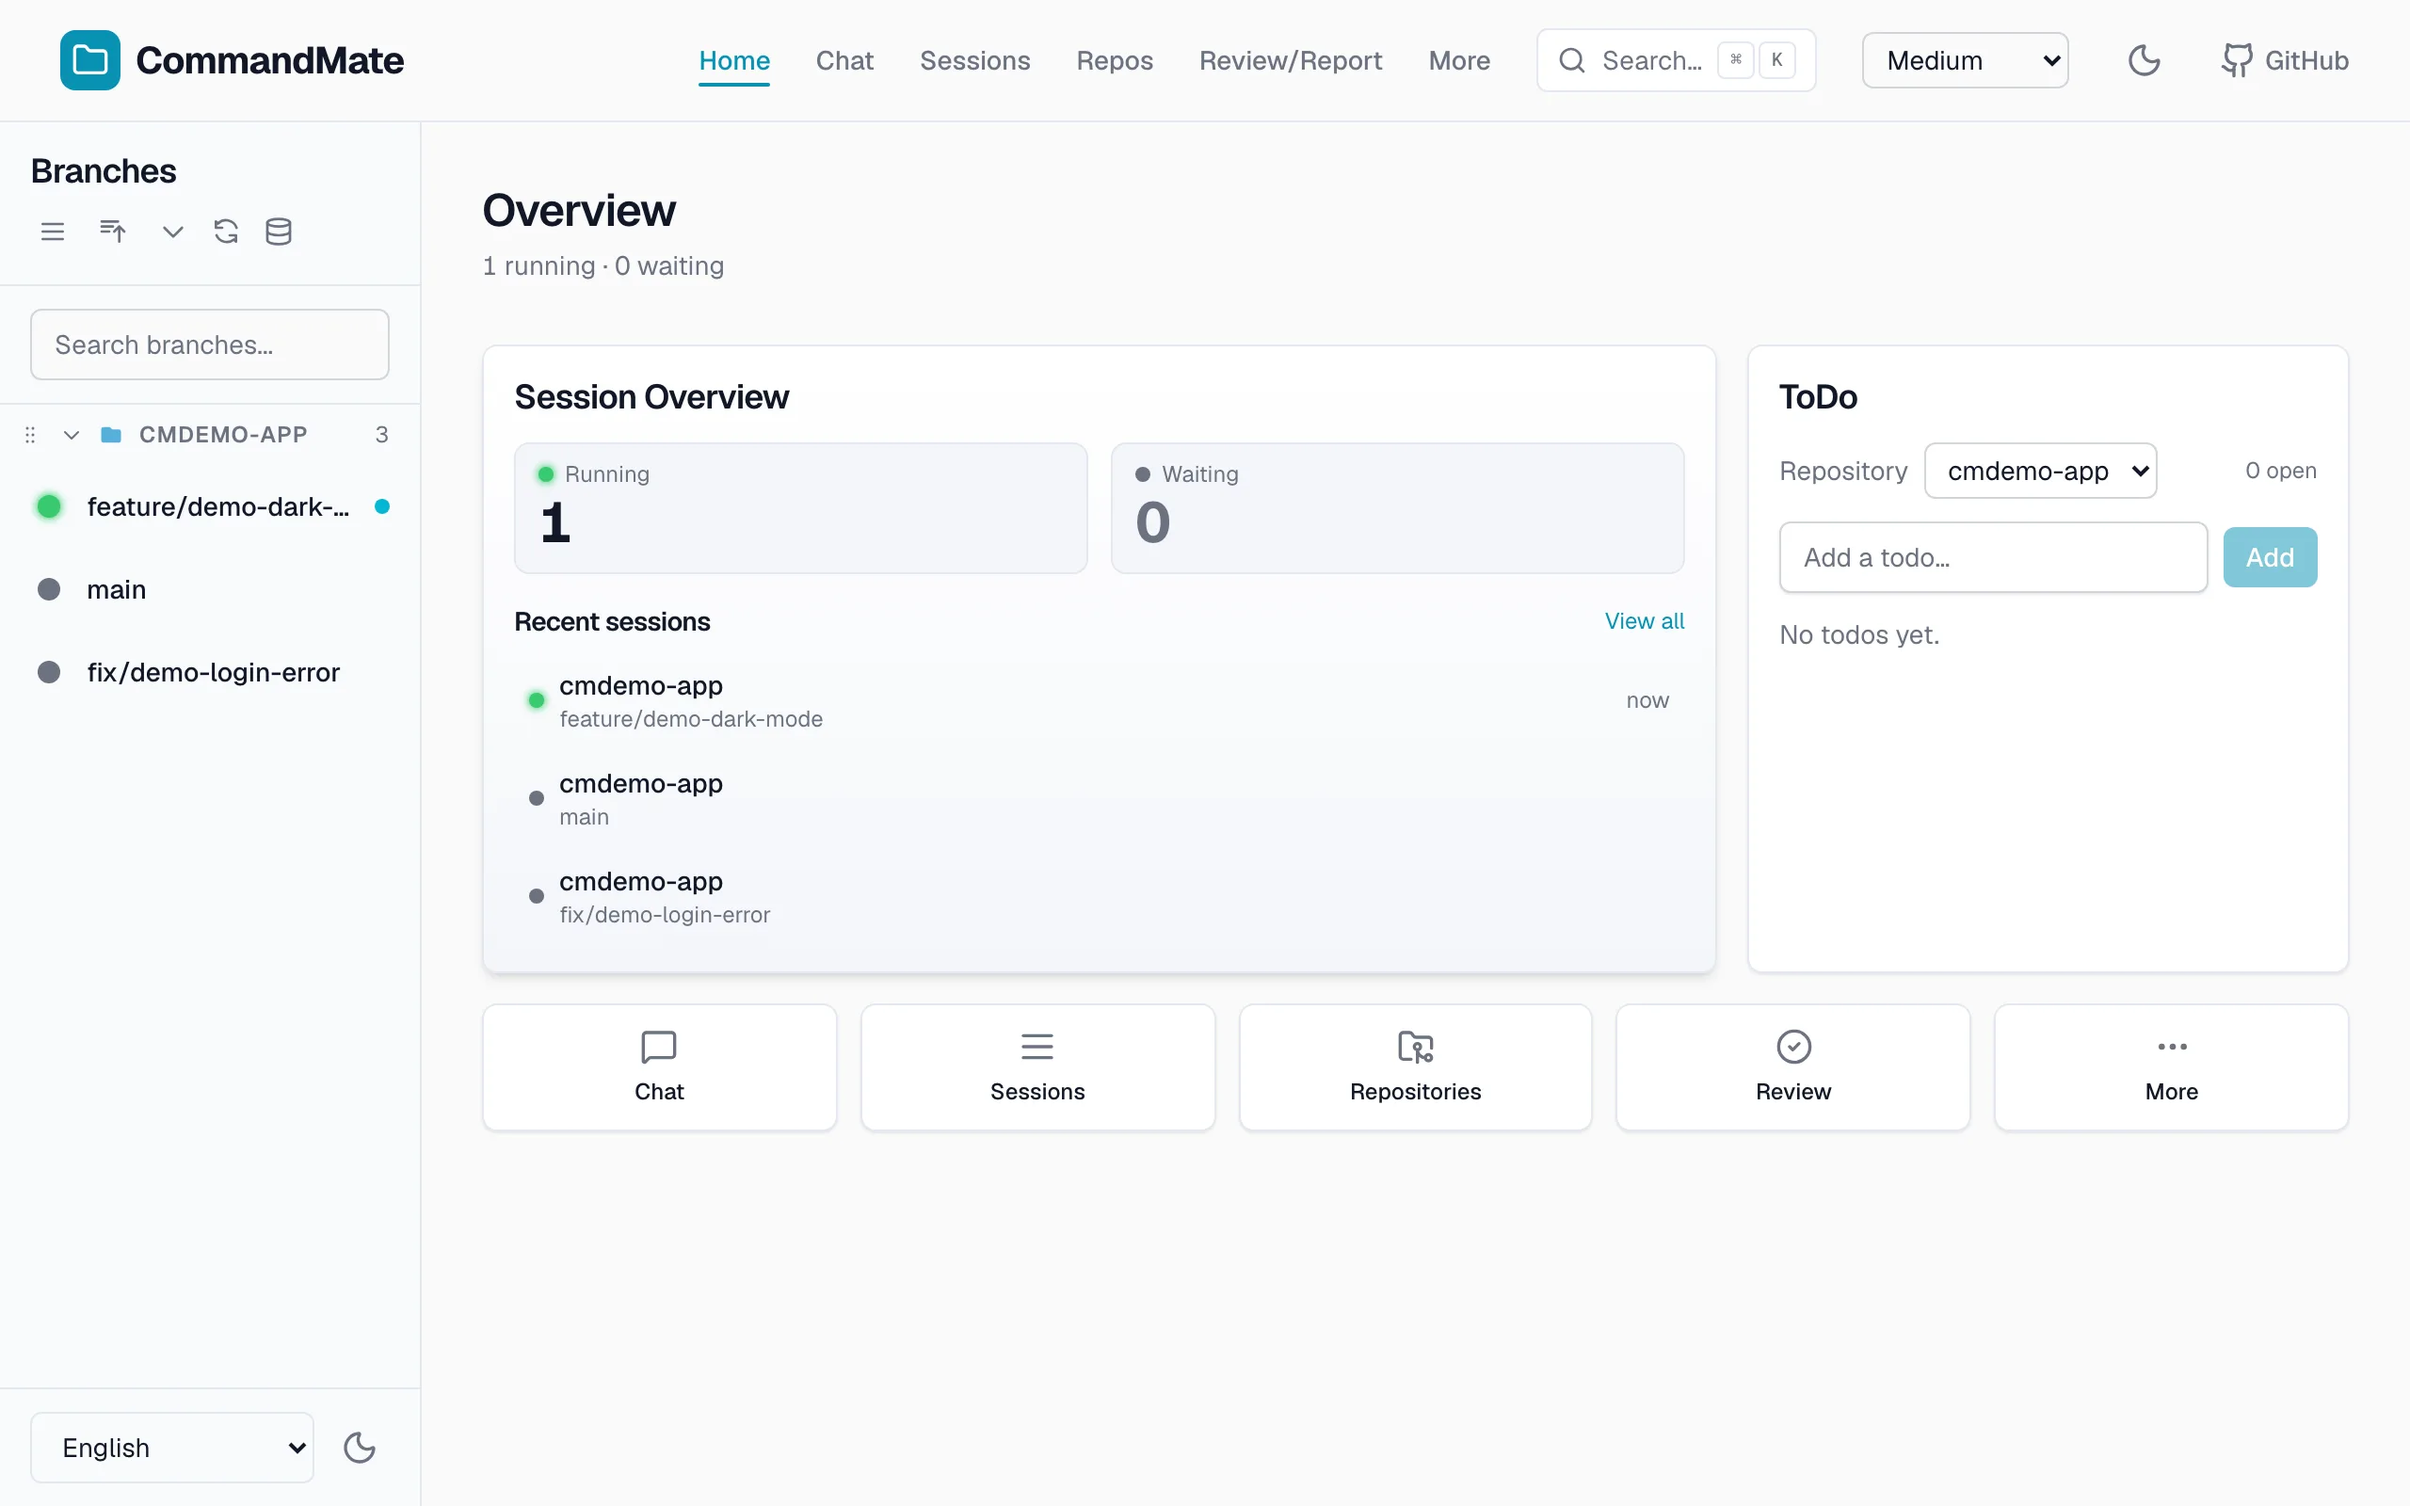
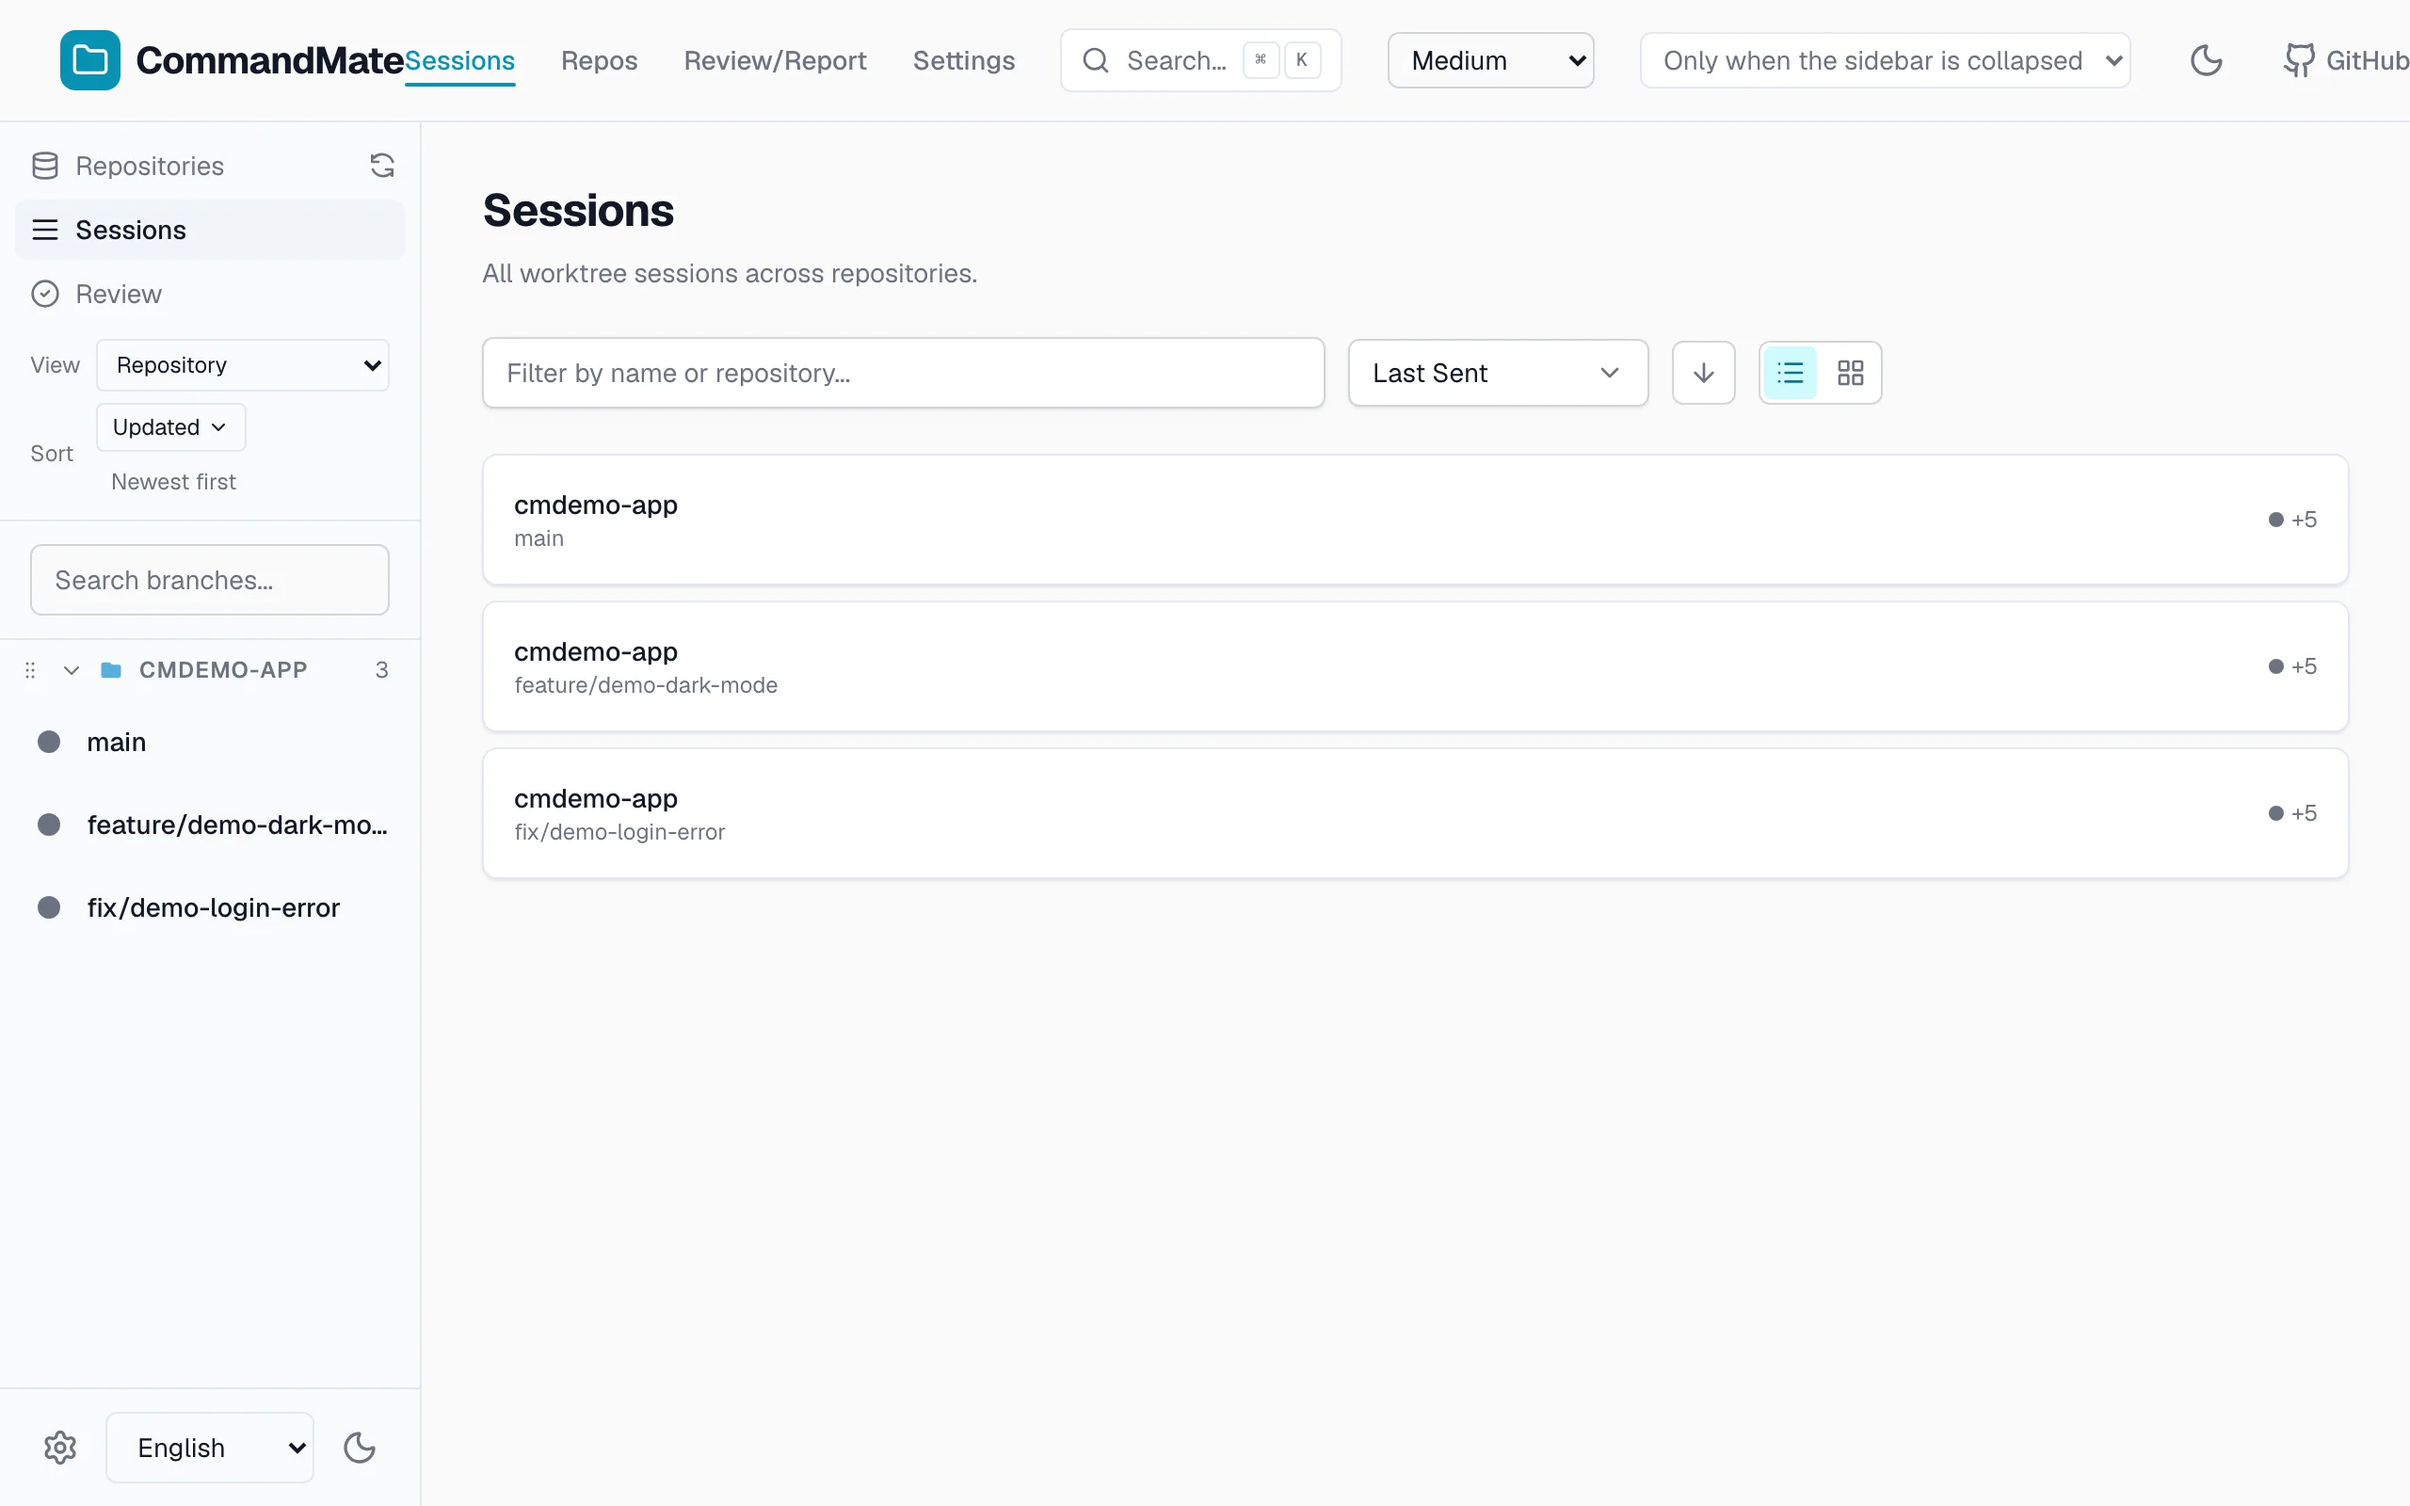
fix(website): LP の PC 画面スクリーンショットと og:image を Sessions 画面で撮り直す (#3174)
- stills.ts の screenshot-desktop を `${baseUrl}/` から `${baseUrl}/sessions` に変更。
  `/` は #2643 以降「最後に開いたブランチ（無ければ /sessions）」への router.replace で、
  撮れる画面が履歴次第だった。待つ要素は実コードで確認した app-shell（AppShell.tsx）、
  sessions-list と session-item-<worktreeId>（src/app/sessions/page.tsx）。
  旧コードが待っていた status-indicator は Sessions 画面に無いため外した。
- stills.test.ts に「hero は /sessions を開き sessions-list と seed の行を待つ」テストを追加（既存 it は不変）。
- SKILL.md の 4-d 表を `/sessions` に更新し .agents/ の写しへ反映（diff -r 無差分）。
  docs/user-guide/demo-video.md には 4-d の表が無かったため、hero が /sessions を撮る旨の
  説明を静止画の節に足した。
- 撮り直し: HOME=/Users/Shared/cmdemo-home、PLAYWRIGHT_BROWSERS_PATH を実ユーザーの
  キャッシュ、unset TMUX、CM_DEMO_HOME=/Users/Shared/cmdemo-home/.commandmate-demo-3174、
  CM_DEMO_PORT=3474 で env-up.sh を起動。ps eww で CM_DB_PATH / HOME / CM_PORT /
  WORKTREE_REPOS が隔離値であること、lsof -p <listener> で開いている .db が
  .commandmate-demo-3174/cm.db だけ（~/.commandmate 配下なし）であることを確認。
  `stills.ts --still screenshot-desktop` を scratchpad 出力で実行し（61,408B, q=82,
  scale=1, 2560x1600 で旧画像と同寸）、webp だけを website/assets/img/ へ置いた。
  他の 4 枚は撮っていない・変えていない。後始末は env-down.sh --purge のみ（tmux は未使用、
  セッション数 28 は前後で不変、ポート 3474 の LISTEN 無し）。
- 画像の目視確認（Read で開いた）: 上部タブ Sessions / Repos / Review/Report / Settings、
  左サイドバー（Repositories / Sessions / Review、CMDEMO-APP の main /
  feature/demo-dark-mode / fix/demo-login-error）、本文は Sessions 一覧 3 行（cmdemo-app）。
  廃止した Home の Overview・ToDo・Home / Chat タブは映っていない。私設リポジトリ名・
[…]

diff --git a/tests/unit/skills/demo-video/stills.test.ts b/tests/unit/skills/demo-video/stills.test.ts
@@ -67,6 +67,39 @@ describe('STILLS', () => {
     expect(DEFAULT_BUDGET_BYTES).toBe(100_000);
   });
 
+  it('shoots the desktop hero on /sessions, not on the / redirect', async () => {
+    // Issue #3174: `/` replaces itself with the last-opened branch (or
+    // /sessions) since #2643, so the hero depended on browser history and the
+    // published one still showed the retired Home Overview. /sessions is the
+    // screen the LP caption describes, and the phone shot already uses it.
+    const visited: string[] = [];
+    const waitedFor: string[] = [];
+    const page = {
+      goto: async (url: string) => {
+        visited.push(url);
+      },
+      evaluate: async () => 'en',
+      getByTestId: (id: string) => ({
+        waitFor: async () => {
+          waitedFor.push(id);
+        },
+        first: () => ({ waitFor: async () => { waitedFor.push(id); } }),
+      }),
+      waitForTimeout: async () => undefined,
+    };
+    const hero = STILLS.find((still) => still.id === 'screenshot-desktop');
+    await hero!.open({
+      page: page as never,
+      baseUrl: 'http://127.0.0.1:3399',
+      locale: 'en',
+      worktreeId: 'wt-dark-mode',
+      state: {} as never,
+    });
+    expect(visited).toEqual(['http://127.0.0.1:3399/sessions']);
+    expect(waitedFor).toContain('sessions-list');
+    expect(waitedFor).toContain('session-item-wt-dark-mode');
+  });
+
   it('writes every still to both published locations', () => {
     const options = parseStillsArgs([], {});
     expect(options.pngDir).toBe(path.join(REPO_ROOT, 'docs/images'));

diff --git a/.agents/skills/demo-video/scripts/stills.ts b/.agents/skills/demo-video/scripts/stills.ts
@@ -76,10 +76,15 @@ export const STILLS: Still[] = [
     viewport: { ...DEFAULT_VIEWPORT },
     deviceScaleFactor: 2,
     budgetBytes: DEFAULT_BUDGET_BYTES,
-    open: async ({ page, baseUrl, locale }) => {
-      await gotoLocalized(page, `${baseUrl}/`, locale);
-      await page.getByTestId('branch-list').waitFor({ state: 'visible' });
-      await page.getByTestId('status-indicator').first().waitFor({ state: 'visible' });
+    // `/` is a redirect to the last-opened branch (or `/sessions`) since #2643,
+    // so what it showed depended on the browser's history. `/sessions` is the
+    // same page the phone shot uses and matches the LP caption ("every session
+    // and its status"), whatever was opened last.
+    open: async ({ page, baseUrl, locale, worktreeId }) => {
+      await gotoLocalized(page, `${baseUrl}/sessions`, locale);
+      await page.getByTestId('app-shell').waitFor({ state: 'visible' });
+      await page.getByTestId('sessions-list').waitFor({ state: 'visible' });
+      await page.getByTestId(`session-item-${worktreeId}`).waitFor({ state: 'visible' });
       await page.waitForTimeout(1500);
     },
   },

diff --git a/.claude/skills/demo-video/scripts/stills.ts b/.claude/skills/demo-video/scripts/stills.ts
@@ -76,10 +76,15 @@ export const STILLS: Still[] = [
     viewport: { ...DEFAULT_VIEWPORT },
     deviceScaleFactor: 2,
     budgetBytes: DEFAULT_BUDGET_BYTES,
-    open: async ({ page, baseUrl, locale }) => {
-      await gotoLocalized(page, `${baseUrl}/`, locale);
-      await page.getByTestId('branch-list').waitFor({ state: 'visible' });
-      await page.getByTestId('status-indicator').first().waitFor({ state: 'visible' });
+    // `/` is a redirect to the last-opened branch (or `/sessions`) since #2643,
+    // so what it showed depended on the browser's history. `/sessions` is the
+    // same page the phone shot uses and matches the LP caption ("every session
+    // and its status"), whatever was opened last.
+    open: async ({ page, baseUrl, locale, worktreeId }) => {
+      await gotoLocalized(page, `${baseUrl}/sessions`, locale);
+      await page.getByTestId('app-shell').waitFor({ state: 'visible' });
+      await page.getByTestId('sessions-list').waitFor({ state: 'visible' });
+      await page.getByTestId(`session-item-${worktreeId}`).waitFor({ state: 'visible' });
       await page.waitForTimeout(1500);
     },
   },

diff --git a/docs/user-guide/demo-video.md b/docs/user-guide/demo-video.md
@@ -24,6 +24,9 @@ npx tsx .claude/skills/demo-video/scripts/stills.ts --state "$HOME/.commandmate-
 ```
 
 `docs/images/screenshot-*.png` と `website/assets/img/*.webp` を書き換える。
+hero（`screenshot-desktop`）は `/sessions` を撮る。`/` は最後に開いたブランチ（無ければ `/sessions`）への
+振り分けで、撮れる画面がブラウザの履歴次第になるため使わない（Issue #3174）。
+`--still <id>` で 1 枚だけ撮り直せる。
 **バイト予算はゲート**で、hero（`screenshot-desktop.webp`）が 100KB に収まらなければ
 品質と解像度を段階的に落とし、それでも収まらなければ**何も書かずに落ちる**。
 撮る前に画面のテキストを読み、個人パス・LAN アドレス・旧製品名が写っていれば失敗させる

diff --git a/.agents/skills/demo-video/SKILL.md b/.agents/skills/demo-video/SKILL.md
@@ -326,7 +326,7 @@ npx tsx .claude/skills/demo-video/scripts/stills.ts --state "$HOME/.commandmate-
 
 | 出力 | 画面 | サイズ | 予算 |
 |---|---|---|---|
-| `screenshot-desktop` | `/`（Overview） | 1280×800 @2x | **< 100KB**（LP hero / og:image。`landing-page.test.ts` が固定） |
+| `screenshot-desktop` | `/sessions`（`/` は最後に開いたブランチへの振り分けなので使わない） | 1280×800 @2x | **< 100KB**（LP hero / og:image。`landing-page.test.ts` が固定） |
 | `screenshot-worktree-desktop` | worktree 詳細 | 同上 | < 200KB（唯一の例外） |
 | `screenshot-mobile` | `/sessions` | 390×844 @3x | < 100KB |
 | `screenshot-worktree-mobile` | worktree 詳細（History タブ） | 同上 | < 100KB |

diff --git a/.claude/skills/demo-video/SKILL.md b/.claude/skills/demo-video/SKILL.md
@@ -326,7 +326,7 @@ npx tsx .claude/skills/demo-video/scripts/stills.ts --state "$HOME/.commandmate-
 
 | 出力 | 画面 | サイズ | 予算 |
 |---|---|---|---|
-| `screenshot-desktop` | `/`（Overview） | 1280×800 @2x | **< 100KB**（LP hero / og:image。`landing-page.test.ts` が固定） |
+| `screenshot-desktop` | `/sessions`（`/` は最後に開いたブランチへの振り分けなので使わない） | 1280×800 @2x | **< 100KB**（LP hero / og:image。`landing-page.test.ts` が固定） |
 | `screenshot-worktree-desktop` | worktree 詳細 | 同上 | < 200KB（唯一の例外） |
 | `screenshot-mobile` | `/sessions` | 390×844 @3x | < 100KB |
 | `screenshot-worktree-mobile` | worktree 詳細（History タブ） | 同上 | < 100KB |

diff --git a/changelog.d/3174.md b/changelog.d/3174.md
@@ -1,0 +1,2 @@
+<!-- ### Fixed -->
+- **fix(website): LP の PC 画面スクリーンショットと og:image を現行 UI の Sessions 画面で撮り直し** (#3174): 廃止した Home の Overview・ToDo・Home / Chat タブが映ったままだった `screenshot-desktop.webp` を隔離環境で撮り直した。`stills.ts` の `screenshot-desktop` は振り分けになった `/` ではなく `/sessions` を開き、`sessions-list` と seed worktree の行を待ってから撮る。
